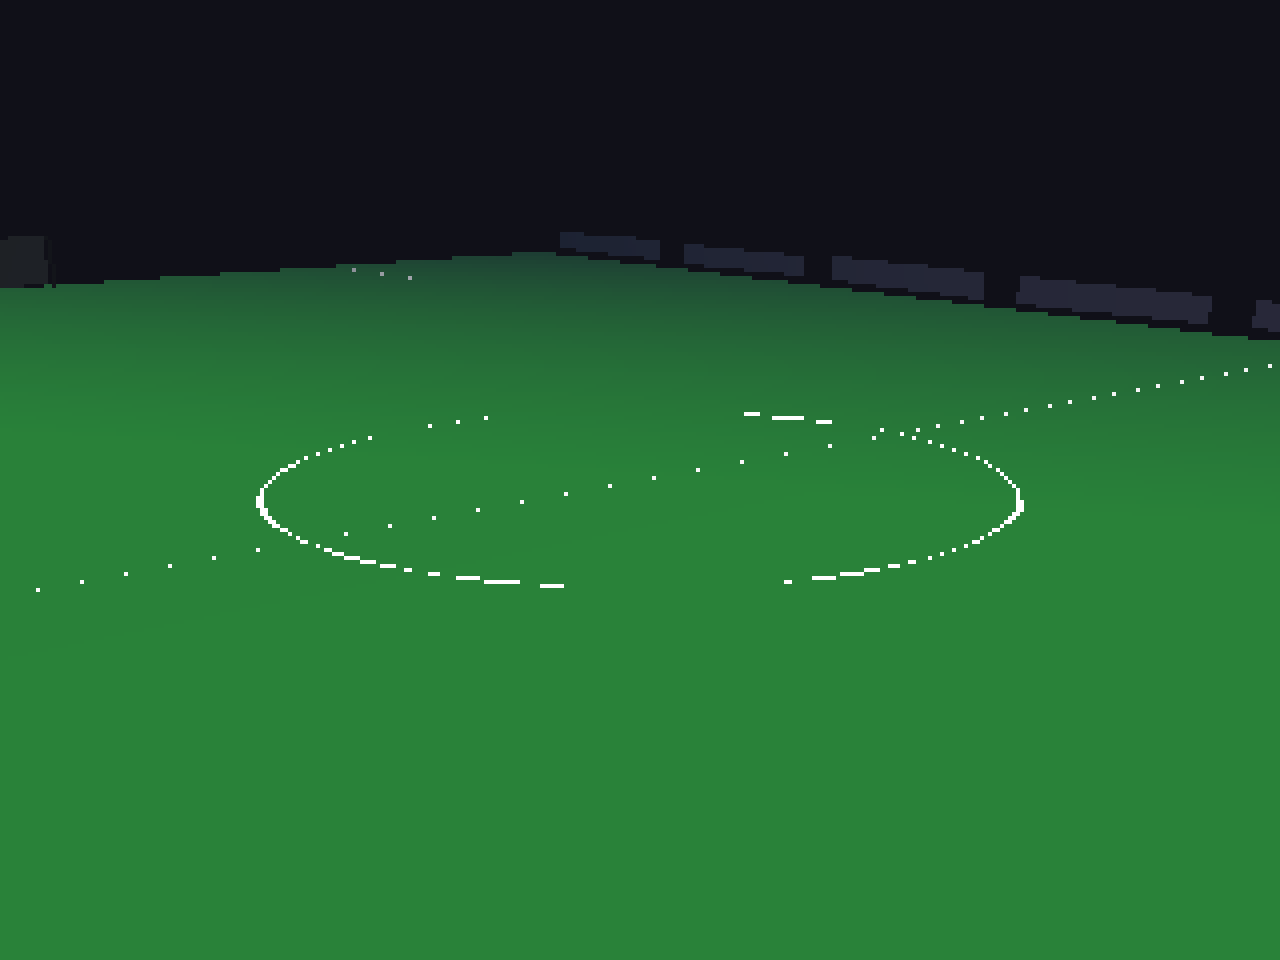
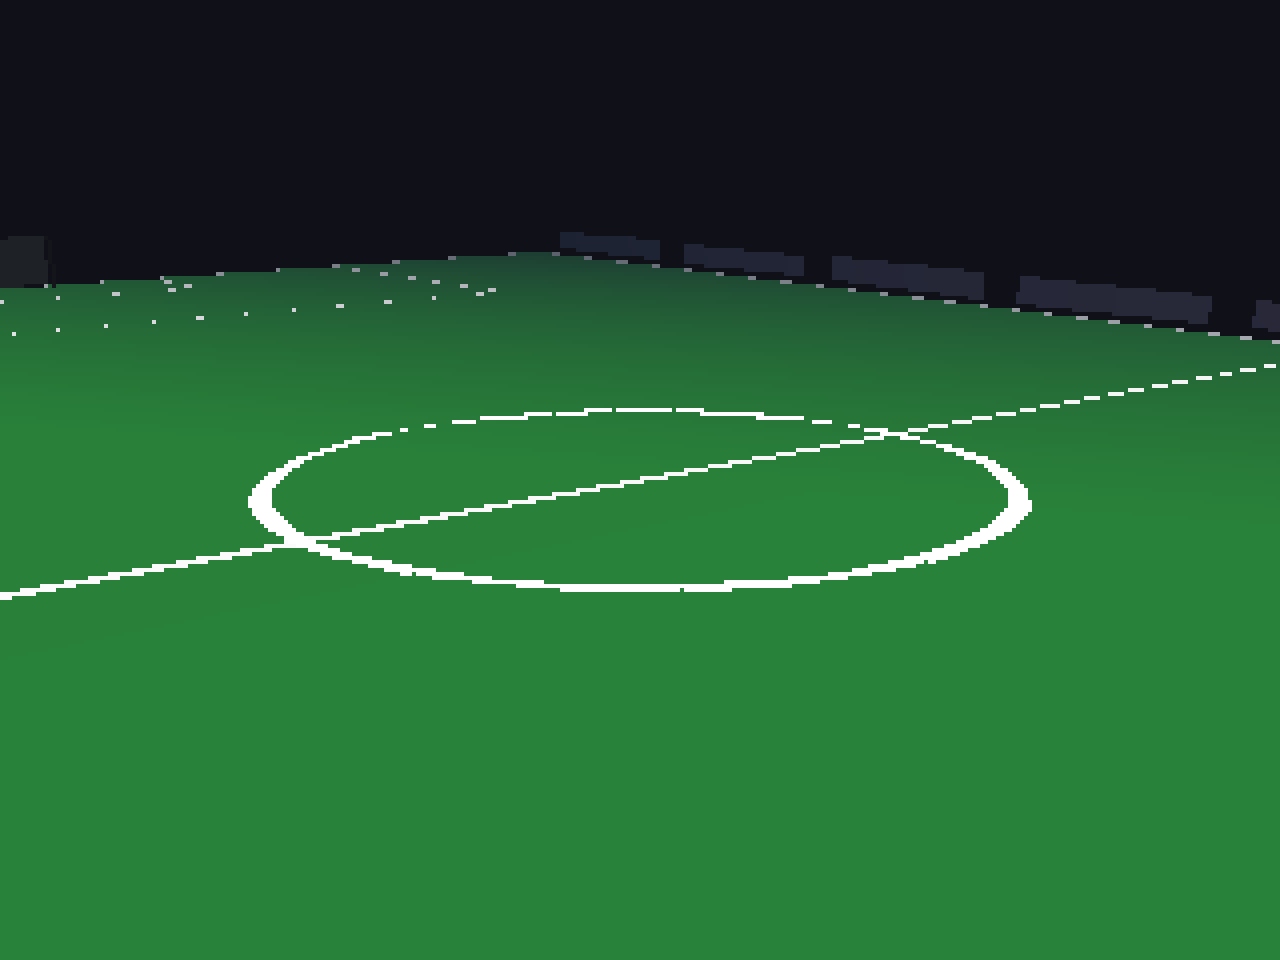
gallery: pitch capture refreshed with chunky markings + honest caption

diff --git a/mortalfootball.html b/mortalfootball.html
@@ -592,7 +592,7 @@
       </figure>
       <figure>
         <img src="shots/mf-m11-pitch-1280x960.png" alt="M1.1 pitch, goals and net — real engine capture">
-        <figcaption>M1.1 · The pitch — grass, centre circle, penalty boxes, goals + net, ad boards. 105×68 m, broadcast camera. (Line-marking winding quirk visible: half the line quads are culled — fix queued)</figcaption>
+        <figcaption>M1.1 · The pitch — grass, centre circle, penalty boxes, goals + net, ad boards. 105×68 m, broadcast camera, chunky PS1 markings. (Markings still steppy at 320×240 — thin geometry quantises under vertex snap; texture-baked paint pass belongs to the juice stage)</figcaption>
       </figure>
       <figure>
         <img src="shots/mf-m08-cube-320x240.gif" alt="M0.8 rotating cube through the full PS1 pipeline — 100fps capture, real engine">
